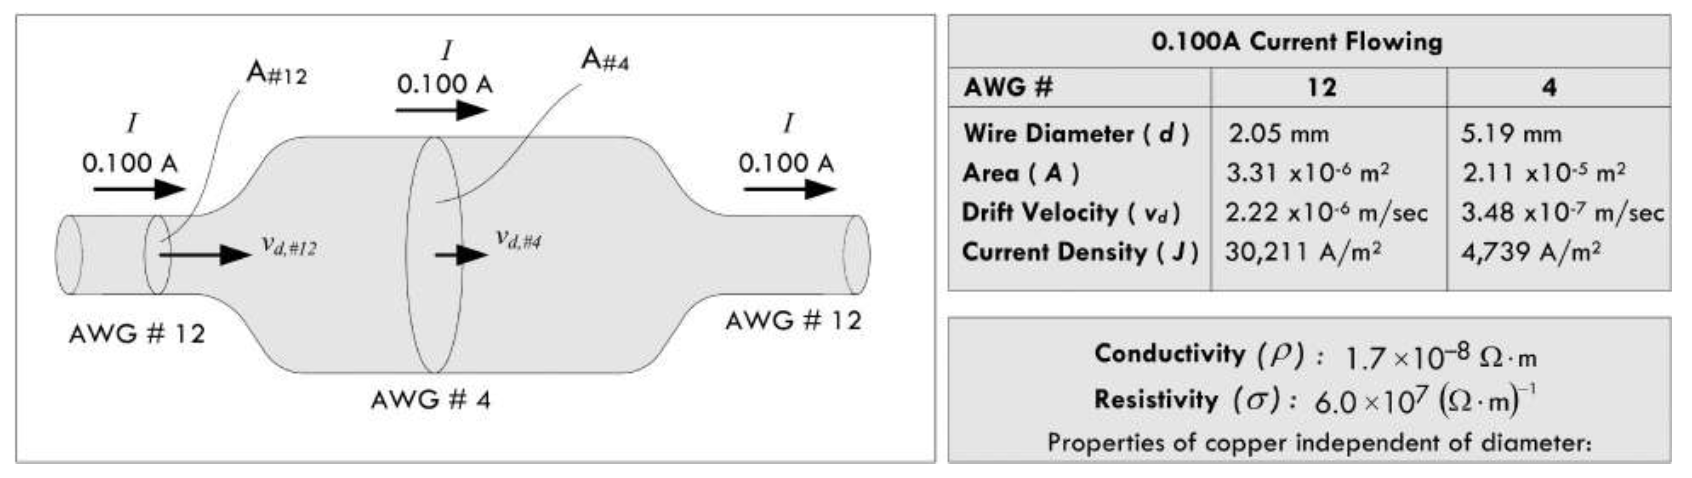
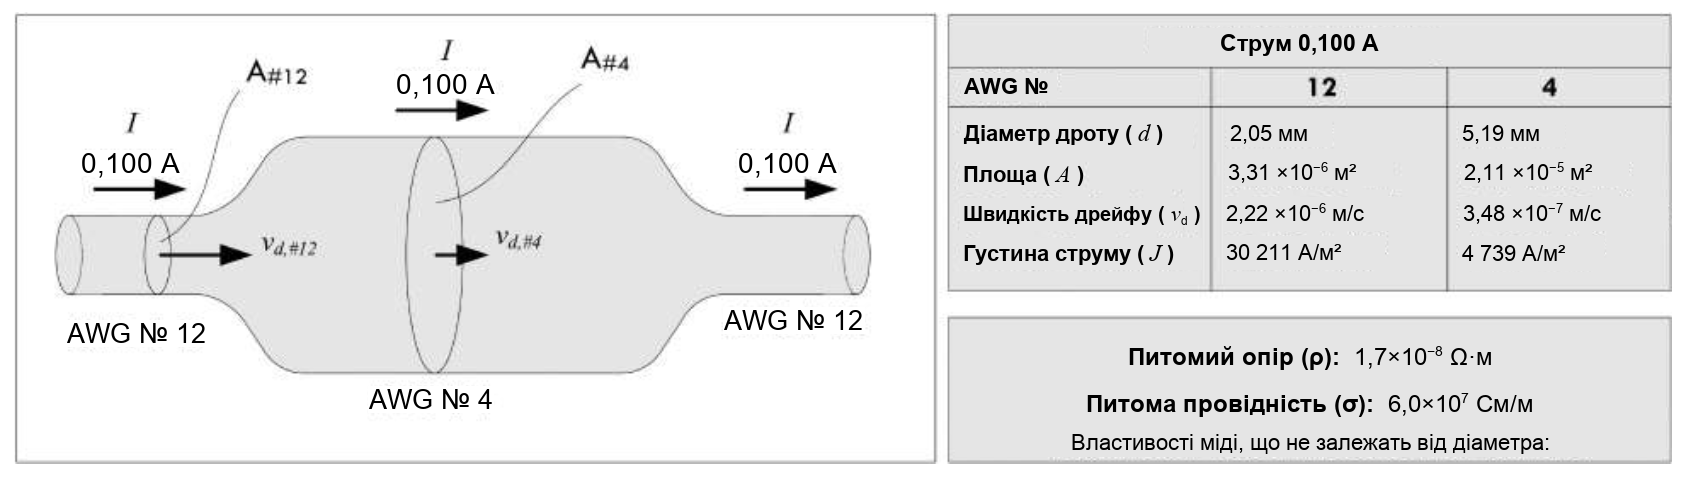
Перевірка розділу 2.5: правки перекладу, нотатки, українські підписи на рис. 2.18 і 2.19

diff --git a/Електроніка/2.5 Опір, питомий опір, питома провідність.md b/Електроніка/2.5 Опір, питомий опір, питома провідність.md
@@ -1,10 +1,10 @@
 
-Як було пояснено в попередньому розділі, вільні електрони в мідному дроті за кімнатної температури часто стикаються з іншими електронами, іонами кристалічної ґратки та домішками в ній, що обмежує їхній поступальний рух. Ці мікроскопічні механізми, що перешкоджають руху електронів, ми пов’язуємо з електричним опором. 
+Як було пояснено в попередньому розділі, вільні електрони в мідному дроті за кімнатної температури часто стикаються з іншими електронами, іонами кристалічної ґратки та домішками в ній, що обмежує їхній рух уперед. Ці мікроскопічні механізми, що перешкоджають руху електронів, ми пов’язуємо з електричним опором. 
 
-У 1826 році Георг Симон Ом опублікував результати експериментів щодо опору різних матеріалів, застосувавши підхід, який не заглиблювався в приховані механізми, а зосереджувався на сумарних спостережуваних ефектах. Він виявив лінійну залежність між силою струму, що проходить крізь матеріал, і прикладеною до нього напругою. Опір він визначив як відношення прикладеної напруги до сили отриманого струму, що виражається формулою:
+У 1826 році Георг Симон Ом опублікував результати експериментів щодо опору різних матеріалів, застосувавши якісний підхід, який не заглиблювався в приховані механізми, а зосереджувався на сумарних спостережуваних ефектах. Він виявив лінійну залежність між силою струму, що проходить крізь матеріал, і прикладеною до нього напругою. Опір він визначив як відношення прикладеної напруги до сили отриманого струму, що виражається формулою:
 
 $$
-R\equiv\frac{V}{I}
+R\equiv\frac{U}{I}
 \tag{2.4}
 $$
 
@@ -20,16 +20,19 @@ $$
 
 ![[Зображення/Розділ 2/Рисунок 2.18 Омічний матеріал.png]]
 
-**Рисунок 2.18.** Омічний матеріал має лінійну залежність між напругою та струмом; нахил графіка $V(I)$ визначається опором.
+**Рисунок 2.18.**
 
 Закон Ома можна застосовувати лише до омічних матеріалів — тих, чий опір залишається незмінним у певному діапазоні напруг. Натомість неомічні матеріали не підпорядковуються цій закономірності й не дотримуються закону Ома. Наприклад, діод — це пристрій, який легко пропускає струм за додатної напруги, але перешкоджає його проходженню (створює високий опір) за від’ємної напруги.
 
-> [!note] Важливе уточнення щодо закону Ома
-> Закон Ома часто записують як
+> [!info] Цікава примітка про закон Ома
+> Зазвичай закон Ома записують у такому вигляді:
 > $$
-> V=I*R.
+> U=I\times R.
 > $$
-> Для омічного матеріалу $R$ є сталою в певному діапазоні напруг, струмів і температур. Формулу можна алгебраїчно перетворювати для знаходження $V$, $I$ або $R$, але вона не є універсальним визначенням напруги й не описує неомічні компоненти.
+> Проте в цій формі виникає спокуса визначати напругу через опір і струм. Важливо усвідомити, що $R$ — це опір омічного матеріалу, і в законі Ома він не залежить від $U$. Насправді закон Ома нічого не стверджує про напругу; навпаки, він визначає опір через напругу й струм, і його не можна застосовувати до інших галузей фізики, як-от статична електрика, оскільки там немає протікання струму. Іншими словами, ви не визначаєте напругу через струм і опір; ви визначаєте опір через напругу й струм. Це не означає, що не можна застосовувати закон Ома, скажімо, щоб спрогнозувати, яка напруга має існувати на відомому опорі за виміряного струму. Насправді це роблять постійно під час аналізу кіл.
+
+> [!note] Нотатка (не з оригіналу): як читати $U=IR$
+> $R$ — властивість провідника (в омічному матеріалі стала), а $U$ і $I$ — виміряні величини. Формулу можна алгебраїчно перетворювати для знаходження $U$, $I$ або $R$, але первинне значення закону Ома — це саме визначення опору $R\equiv U/I$.
 
 ## 2.5.1 Як форма провідника впливає на опір
 
@@ -37,15 +40,14 @@ $$
 
 Зростання опору зі збільшенням довжини можна пояснити тим, що вздовж дроту трапляється більше іонів кристалічної ґратки та дефектів, які створюють перешкоди для прикладеного поля (електричного поля, зумовленого електронами, що їх нагнітає джерело). Це поле менш ефективно переміщує електрони, оскільки в міру просування вздовж провідника зростає протидія з боку інших електронів — тобто в середньому відбувається більше зіткнень.
 
-Зменшення опору зі збільшенням площі поперечного перерізу можна пояснити тим, що провідник більшого об’єму (з більшою площею перерізу) здатний пропускати більший струм. Якщо порівняти тонкий і товстий дроти, через які проходить струм силою 0,100 А, то в тонкому дроті цей струм має проходити крізь менший об’єм, тоді як у товстому він розподіляється по більшому об’єму. Електрони, обмежені меншим об’ємом, частіше стикаються з іншими електронами, іонами кристалічної ґратки та дефектами, ніж у дроті більшого об’єму. Концентрація потоку вільних електронів, згідно з умовною домовленістю Бенджаміна Франкліна, відповідає концентрації потоку умовного струму, що рухається у протилежному напрямку. Ця концентрація потоку струму називається густиною струму J — це величина струму, що проходить через одиницю площі. Для дроту: $J = I/A$. На рисунку 2.19 показано, що густина струму в тонкому дроті (калібру 12) вища, ніж у товстішому дроті (калібру 4). Також видно, що швидкість дрейфу в товстому дроті менша, ніж у тонкому; це є наслідком «зниження тиску електронного поля», що послаблює середню силу, яка «штовхає» носії заряду в напрямку потоку струму.
+Зменшення опору зі збільшенням площі поперечного перерізу можна пояснити тим, що провідник більшого об’єму (з більшою площею перерізу) здатний пропускати більший струм. Якщо порівняти тонкий і товстий дроти, через які проходить струм силою 0,100 А, то в тонкому дроті цей струм має проходити крізь менший об’єм, тоді як у товстому він розподіляється по більшому об’єму. Електрони, обмежені меншим об’ємом, частіше стикаються з іншими електронами, іонами кристалічної ґратки та дефектами, ніж у дроті більшого об’єму. Концентрація потоку вільних електронів, згідно з умовною домовленістю Бенджаміна Франкліна, відповідає концентрації потоку умовного струму, що рухається у протилежному напрямку. Ця концентрація потоку струму називається густиною струму J — це величина струму, що проходить через одиницю площі. Для дроту: $J = I/A$. На рисунку 2.19 показано, що густина струму в тонкому дроті (калібру 12) вища, ніж у товстішому дроті (калібру 4). Також видно, що швидкість дрейфу в товстому дроті менша, ніж у тонкому; це є наслідком «зниження тиску електронного поля», що послаблює середній «поштовх» у напрямку потоку струму.
 
+> [!note] Нотатка (не з оригіналу): чому тонкий дріт опірніший
+> Той самий струм $I$ → менша площа $A$ → більша густина $J=I/A$ → більше зіткнень електронів → більший опір. У товстому дроті $J$ і дрейфова швидкість менші (рис. 2.19).
 
 ![[Зображення/Розділ 2/Рисунок 2.19 Вплив діаметра дроту на опір.png]]
 
 **Рисунок 2.19.** Вплив діаметра дроту на опір. Тонший дріт має більший опір на одиницю довжини, ніж товстіший.
-
-> [!warning] Помилка в рисунку 2.19
-> У нижньому правому блоці оригіналу переплутано назви величин. Значення $1{,}7\times10^{-8}\ \Omega\cdot\text{м}$ — це питомий опір міді $\rho$, а $6{,}0\times10^7\ \text{См/м}$ — її питома провідність $\sigma$.
 
 ## 2.5.2 Питомий опір і питома провідність
 
@@ -57,46 +59,65 @@ $$
 \tag{2.5}
 $$
 
-де $A$ — площа поперечного перерізу, $L$ — довжина, а $R$ — повний опір матеріалу, виміряний уздовж його довжини. Одиницею вимірювання питомого опору є ом-метр ($Ωm$).
+де $A$ — площа поперечного перерізу, $L$ — довжина, а $R$ — повний опір матеріалу, виміряний уздовж його довжини. Одиницею вимірювання питомого опору є ом-метр ($\Omega\cdot\text{м}$).
 
-Для декого питомий опір — це надто «негативне» поняття, адже воно вказує на те, наскільки «погано» певний матеріал проводить струм. Оптимісти ж віддають перевагу поняттю електропровідності — тобто тому, наскільки «добре» матеріал проводить струм. Електропровідність, що позначається літерою $σ$, є просто величиною, оберненою до питомого опору:
+Для декого питомий опір — це надто «негативне» поняття, адже воно вказує на те, наскільки «погано» певний матеріал проводить струм. Оптимісти ж віддають перевагу поняттю питомої провідності — тобто тому, наскільки «добре» матеріал проводить струм. Питома провідність, що позначається літерою $σ$, є просто величиною, оберненою до питомого опору:
 
 $$
 \sigma\equiv\frac{1}{\rho}.
 \tag{2.6}
 $$
 
-Одиницею вимірювання питомої електропровідності є сіменс $S = (Ωm)^{-1}$; математична примітка: $[Ωm]−1 = 1/[Ωm]$). Як питома електропровідність, так і питомий електричний опір містять одну й ту саму важливу інформацію. Дехто воліє оперувати рівняннями, що використовують оптимістичне поняття електропровідності («склянка наполовину повна»), тоді як інші надають перевагу песимістичному поняттю питомого опору («склянка наполовину порожня»).
+Одиницею вимірювання питомої провідності є сіменс, $\text{См} = (\Omega\cdot\text{м})^{-1}$. (Математична примітка: $[\Omega\cdot\text{м}]^{-1} = 1/[\Omega\cdot\text{м}]$.) Як питома провідність, так і питомий опір містять одну й ту саму важливу інформацію. Дехто воліє оперувати рівняннями, що використовують оптимістичне поняття питомої провідності («склянка наполовину повна»), тоді як інші надають перевагу песимістичному поняттю питомого опору («склянка наполовину порожня»).
+
 З огляду на питомий опір і питому провідність, закон Ома можна переписати таким чином:
 
 $$
-V=IR=\rho\frac{L}{A}I=\frac{IL}{\sigma A}.
+U=IR=\rho\frac{L}{A}I=\frac{IL}{\sigma A}.
 \tag{2.7}
 $$
 
-У таблиці 2.2 наведено значення електропровідності (або питомого опору — для песимістів) різних матеріалів. (Повний перелік можна знайти в технічних довідниках, наприклад, у *Handbook of Chemistry and Physics*.) Електропровідність таких металів, як мідь і срібло, у 10²¹ разів перевищує електропровідність якісного діелектрика, скажімо, тефлону. Хоча мідь і срібло є чудовими провідниками, срібло надто дороге для практичного застосування. Алюміній також є досить хорошим провідником і свого часу навіть використовувався в електропроводці житлових будинків; однак згодом з’ясувалося, що він схильний до сильного окиснення, що погіршує якість електричних контактів і обмежує проходження струму вузькими каналами. Це створювало ризик виникнення пожежі.
+У таблиці 2.2 наведено значення питомої провідності (або питомого опору — для песимістів) різних матеріалів. (Повний перелік можна знайти в технічних довідниках, наприклад, у *Handbook of Chemistry and Physics*.) Питома провідність таких металів, як мідь і срібло, у 10²¹ разів перевищує питому провідність якісного ізолятора, скажімо, тефлону. Хоча мідь і срібло є чудовими провідниками, срібло надто дороге для практичного застосування. Алюміній також є досить хорошим провідником і свого часу навіть використовувався в електропроводці житлових будинків; однак швидко стало очевидним, що він схильний до сильного окиснення, що погіршує якість електричних контактів і обмежує проходження струму вузькими каналами. Це створювало ризик виникнення пожежі.
 
-> [!warning] Неточність у підручнику
+> [!warning] Неточність у підручнику (примітка не з оригіналу)
 > В оригіналі одиницю питомої провідності названо просто сіменсом. Сіменс ($\text{См}=\Omega^{-1}$) є одиницею провідності компонента, а питому провідність матеріалу вимірюють у $\text{См/м}$.
 
-### Таблиця 2.2. Електричні властивості деяких матеріалів
+### Таблиця 2.2. Питома провідність різних матеріалів
 
-| Матеріал | $\rho$, $\Omega\cdot\text{м}$ | $\sigma$, $\text{См/м}$ | Тип                        |
-| -------- | ----------------------------: | ----------------------: | -------------------------- |
-| Срібло   |         $1{,}59\times10^{-8}$ |      $6{,}29\times10^7$ | провідник                  |
-| Мідь     |         $1{,}72\times10^{-8}$ |      $5{,}81\times10^7$ | провідник                  |
-| Алюміній |         $2{,}82\times10^{-8}$ |      $3{,}55\times10^7$ | провідник                  |
-| Латунь   |              $7\times10^{-8}$ |       $1{,}4\times10^7$ | провідник                  |
-| Ніхром   |          $1{,}0\times10^{-6}$ |       $1{,}0\times10^6$ | провідник з високим опором |
-| Графіт   |          $3{,}5\times10^{-5}$ |       $2{,}9\times10^4$ | напівпровідний матеріал    |
-| Германій |                      $0{,}46$ |                 $2{,}2$ | напівпровідник             |
-| Скло     |           $10^{10}$–$10^{14}$ |   $10^{-14}$–$10^{-10}$ | ізолятор                   |
-| Тефлон   |                     $10^{14}$ |              $10^{-14}$ | ізолятор                   |
+> [!note] Нотатка (не з оригіналу)
+> У стовпці σ оригінал вказує $(\Omega\text{м})^{-1}$; тут одиницю виправлено на $\text{См/м}$.
 
-> [!tip]
+| Матеріал | Питомий опір $\rho$, $\Omega\cdot\text{м}$ | Питома провідність $\sigma$, $\text{См/м}$ | Температурний коефіцієнт $\alpha$, $(°\text{C})^{-1}$ | Тепловий опір, $(\text{Вт/см·°C})^{-1}$ | Теплопровідність $K$, $\text{Вт/см·°C}$ |
+| --- | ---: | ---: | ---: | ---: | ---: |
+| **Провідники** | | | | | |
+| Алюміній | $2{,}82\times10^{-8}$ | $3{,}55\times10^7$ | $0{,}0039$ | $0{,}462$ | $2{,}165$ |
+| Золото | $2{,}44\times10^{-8}$ | $4{,}10\times10^7$ | | $0{,}343$ | $2{,}913$ |
+| Срібло | $1{,}59\times10^{-8}$ | $6{,}29\times10^7$ | $0{,}0038$ | $0{,}240$ | $4{,}173$ |
+| Мідь | $1{,}72\times10^{-8}$ | $5{,}81\times10^7$ | $0{,}0039$ | $0{,}254$ | $3{,}937$ |
+| Залізо | $10{,}0\times10^{-8}$ | $1{,}0\times10^7$ | $0{,}0050$ | $1{,}495$ | $0{,}669$ |
+| Вольфрам | $5{,}6\times10^{-8}$ | $1{,}8\times10^7$ | $0{,}0045$ | $0{,}508$ | $1{,}969$ |
+| Платина | $10{,}6\times10^{-8}$ | $1{,}0\times10^7$ | $0{,}003927$ | | |
+| Свинець | $0{,}22\times10^{-6}$ | $4{,}54\times10^6$ | | $2{,}915$ | $0{,}343$ |
+| Сталь (нержавка) | $0{,}72\times10^{-6}$ | $1{,}39\times10^6$ | | $6{,}757$ | $0{,}148$ (312) |
+| Ніхром | $100\times10^{-8}$ | $0{,}1\times10^7$ | $0{,}0004$ | | |
+| Манганін | $44\times10^{-8}$ | $0{,}23\times10^7$ | $0{,}00001$ | | |
+| Латунь | $7\times10^{-8}$ | $1{,}4\times10^7$ | $0{,}002$ | $0{,}820$ | $1{,}22$ |
+| **Напівпровідники** | | | | | |
+| Вуглець (графіт) | $3{,}5\times10^{-5}$ | $2{,}9\times10^4$ | $-0{,}0005$ | | |
+| Германій | $0{,}46$ | $2{,}2$ | $-0{,}048$ | | |
+| Кремній | $640$ | $3{,}5\times10^{-3}$ | $-0{,}075$ | $0{,}686$ | $1{,}457$ (чистий) |
+| Арсенід галію | | | | $1{,}692$ | $0{,}591$ |
+| **Ізолятори** | | | | | |
+| Скло | $10^{10}$–$10^{14}$ | $10^{-14}$–$10^{-10}$ | | | |
+| Неопренова гума | $10^{9}$ | $10^{-9}$ | | | |
+| Кварц (плавлений) | $75\times10^{16}$ | $10^{-16}$ | | | |
+| Сірка | $10^{15}$ | $10^{-15}$ | | | |
+| Тефлон | $10^{14}$ | $10^{-14}$ | | | |
+
+> [!tip] Підказка (не з оригіналу)
 > Що менший питомий опір $\rho$, то кращий провідник. Що більша питома провідність $\sigma$, то кращий провідник.
 
-Важливою характеристикою питомого опору (або питомої електропровідності) є його залежність від температури. Як правило, у певному температурному діапазоні питомий опір багатьох металів підпорядковується такому рівнянню:
+Важливою характеристикою питомого опору (або питомої провідності) є його залежність від температури. Як правило, у певному температурному діапазоні питомий опір багатьох металів підпорядковується такому рівнянню:
 
 $$
 \rho(T)=\rho_0\left[1+\alpha(T-T_0)\right].
@@ -105,118 +126,31 @@ $$
 
 де $ρ$ — розрахунковий питомий опір, визначений на основі опорного значення питомого опору $ρ_0$ та температури $T_0$. Величина $α$ називається температурним коефіцієнтом питомого опору і вимірюється в $1/°C$ або $(°C)^{−1}$. Питомий опір більшості металів зростає з підвищенням температури, оскільки коливання атомів кристалічної ґратки, зумовлені тепловою енергією (підвищенням температури), перешкоджають дрейфовій швидкості електронів провідності.
 
+> [!note] Нотатка (не з оригіналу): знак $\alpha$
+> У металів $\alpha>0$ (опір зростає з температурою). У напівпровідників за табл. 2.2 $\alpha<0$ (вуглець, германій, кремній): з нагріванням з’являється більше носіїв заряду, і опір падає. Манганін має $\alpha\approx10^{-5}$ — майже не залежить від температури.
+
 ## Чи є вода, повітря та вакуум ізоляторами чи провідниками?
 
-Відповідь залежить від домішок, іонізації та зовнішніх умов.
+Ці середовища потребують окремої згадки. Дивіться коментарі в таблиці 2.3.
 
 ### Таблиця 2.3. Питомий опір особливих середовищ
 
-| Середовище | Орієнтовний $\rho$, $\Omega\cdot\text{м}$ | Що переносить заряд |
+| Матеріал | Питомий опір $\rho$, $\Omega\cdot\text{м}$ | Коментарі |
 |---|---:|---|
-| Чиста вода | $2{,}5\times10^5$ | невелика кількість іонів $\mathrm{H_3O^+}$ та $\mathrm{OH^-}$ |
-| Солона вода | $\approx0{,}2$ | переважно іони $\mathrm{Na^+}$ та $\mathrm{Cl^-}$ |
-| Шкіра людини | $\approx5{,}0\times10^5$ | значення сильно залежить від вологості та вмісту солей |
-| Повітря | дуже великий за нормальних умов | іони й вільні електрони після іонізації |
-| Вакуум | ідеально нескінченний без носіїв заряду | струм можливий лише після введення або емісії заряджених частинок |
+| Чиста вода | $2{,}5\times10^5$ | Дистильована вода — дуже хороший ізолятор: вона має високий питомий опір. Доволі слабкий механізм провідності ґрунтується на потоці іонів, а не електронів, як у металах. За кімнатної температури вода зазвичай зазнає автоіонізації, що породжує певну кількість іонів $\mathrm{H_3O^+}$ та $\mathrm{OH^-}$, число яких мале порівняно з молекулами $\mathrm{H_2O}$ (1:10⁻⁷). Якщо підключити батарею з відомою напругою до двох мідних електродів, розташованих на відстані один від одного у відрі з дистильованою водою, і виміряти струм у металевій ділянці кола, то за законом Ома отримаємо, що вода має опір близько $20\times10^6\ \Omega/\text{см}$. Між електродами $\mathrm{H_3O^+}$ рухаються до від’ємного електрода, а $\mathrm{OH^-}$ — до додатного. Коли кожен іон досягає електрода, він віддає або приймає електрон, після чого іон рекомбінує в розчині. |
+| Солона вода | $\sim0{,}2$ | Додавання іонної сполуки у вигляді звичайної солі (NaCl) до води збільшує концентрацію іонів у розчині — NaCl іонізується на $\mathrm{Na^+}$ та $\mathrm{Cl^-}$. Грам доданої солі вносить близько $2\times10^{22}$ іонів. Ці іони діють як носії заряду, що, своєю чергою, ефективно знижує опір розчину до значення менше ніж один ом на метр. Якщо використати розчин як провідник між батареєю та лампою — через електроди, занурені в розчин, — струму буде достатньо, щоб запалити лампу. |
+| Шкіра людини | $\sim5{,}0\times10^5$ | Змінюється залежно від вологості та вмісту солі. |
+| Повітря | | Вважається ізолятором, оскільки майже не містить вільних електронів. Проте, як і рідини, повітря часто містить концентрації позитивних і негативних іонів, що перебувають у повітрі. Утворення повітряного іона починається з того, що електрон вибивається з нейтральної молекули повітря, наприклад кисню ($\mathrm{O_2}$) або азоту ($\mathrm{N_2}$), внаслідок природного бомбардування рентгенівськими променями, гамма-променями або альфа-частинками, які випромінюють атоми радону, що розпадаються. (На рівні моря щосекунди на кожному сантиметрі утворюється приблизно 5–10 пар іонів [в оригіналі «per centimeter»; фізично йдеться про 1 см³]; поблизу радонових зон — більше.) Позитивна молекула кисню або азоту швидко притягує полярні молекули (від 10 до 15 за кількістю), здебільшого води. Отримане скупчення називається позитивним повітряним іоном. Звільнений електрон, своєю чергою, найімовірніше прикріпиться до молекули кисню (азот не має спорідненості до електронів). Примітка: повітря вважається нейтральним — іони завжди утворюються парами, у рівній кількості позитивні та негативні.<br><br>Щоб струм протікав крізь повітря, потрібно прикласти до нього електричне поле — наприклад, за допомогою двох паралельних пластин, розташованих на відстані одна від одної та підключених до різних потенціалів (між ними існує напруга). За низької напруги напруженість поля мала, і між пластинами може відбуватися рух повітряних іонів, але оскільки концентрація вільних іонів, що плавають у повітрі, дуже мала, практично жодного струму немає. Однак якщо збільшити напруженість поля, можна розігнати ті вільні електрони (звільнені природними процесами) у повітрі до таких високих швидкостей (у напрямку до позитивної пластини), що самі ці електрони матимуть достатньо енергії, щоб зіштовхуватися з молекулами повітря та породжувати нові пари іонів (позитивних і негативних). Напруженість поля пробою, за якої ці іонізації починаються, становить приблизно 3 мегавольти на метр між плоскими електродами в повітрі. Двом металевим пластинам на відстані 1 см потрібно близько 30 000 В, щоб між ними відбулася іонізація. Проте напруженість електричного поля можна підвищити, замінивши одну з пластин гострим металевим вістрям або тонким дротом. Тоді потрібна напруга падає до кількох кіловольтів. Те, що відбувається, можна класифікувати так:<br><br>**Коронний розряд:** іонізація обмежена невеликою ділянкою навколо електрода, де перевищено напруженість поля пробою. В решті поля є лише струм повільних іонів і ще повільніших заряджених частинок, що знаходять шлях до протилежного електрода (яким може бути протилежно заряджена пластина або просто стіна кімнати чи земля). Такий розряд може підтримуватися, доки напруженість поля пробою перевищена в якійсь області.<br><br>**Іскровий розряд:** може виникати між двома добре закругленими провідниками з різними потенціалами, один з яких часто заземлений. Як і коронний розряд, він починається в точці, де перевищено напруженість поля пробою. Але на відміну від коронного розряду, в іскрі іонізація відбувається на всій відстані між електродами. Розряд дуже швидкий, а його енергія зосереджена у вузькому об’ємі. Напруга, необхідна для пробою, називається напругою пробою. Наприклад, коли ви заряджаєтеся, йдучи по ізольованій підлозі (наприклад, килиму) в ізольованому взутті й набуваєте заряду через контакт і тертя, а потім торкаєтеся заземленого предмета, заряд перетікатиме між вами й предметом ще до фізичного контакту — це іскра. Мало хто помічає розряди за напруг нижче приблизно 1000 В. Більшість людей починає відчувати неприємний ефект близько 2000 В. Майже всі скаржитимуться на розряди за напруг понад 3000 В.<br><br>**Щітковий розряд:** проміжний між коронним розрядом і іскрою; може виникати, наприклад, між зарядженим матеріалом і зазвичай заземленим електродом із радіусом кривизни кілька міліметрів. Якщо щітковий розряд підтримується довший час, він може виглядати як нерегулярні світні доріжки. Майже всі розряди з ізоляторів — щіткові, як-от тріск, що чути, коли берете заряджену фотокопію, або те, що відчуваєте, знімаючи светр через голову. |
+| Вакуум | | Вважається ідеальним ізолятором, оскільки за визначенням не містить жодних вільних зарядів. Однак це не означає, що заряди не можуть крізь нього проходити. Різні механізми можуть викидати електрони з матеріалу в так званий вакуум. (Це стосується й повітря.) Приклади таких механізмів: **термоелектронна емісія**, за якої підвищення температури надає вільним електронам достатньо енергії, щоб подолати поверхневі потенціальні бар’єри (роботу виходу) матеріалу; **польова емісія**, за якої додаткова енергія електричного поля, створеного високовольтним провідником, забезпечує достатньо притягальне позитивне поле, щоб вивільнити електрони з поверхні, що потребує величезних напруг (МВ на см між емітуючою поверхнею та позитивним провідником); **вторинна емісія**, за якої електрони випромінюються з металевої поверхні внаслідок бомбардування швидкими електронами чи іншими частинками; **фотоелектронна емісія**, за якої електрони вибиваються з поверхні матеріалу, коли на неї потрапляє фотон певної частоти (поглинутий електрон). Багато з цих механізмів використовуються в технології вакуумних ламп. Однак без таких механізмів, що постачають електрони, у вакуумі не буде джерела заряду, здатного підтримувати струм. |
 
-Дистильована вода є добрим ізолятором. Звичайна та солона вода проводять значно краще через розчинені іони. Додавання солі збільшує концентрацію носіїв заряду й різко зменшує питомий опір.
+> [!note] Нотатка (не з оригіналу): порівняння розрядів у повітрі
+> | Розряд | Де іонізація | Ознака |
+> |---|---|---|
+> | Коронний | лише біля електрода (гострий кінець) | повільні іони, струм малий, розряд може тривати |
+> | Щітковий | проміжний тип, радіус кривизни ≈ кілька мм | нерегулярні світні доріжки, тріск |
+> | Іскровий | на всьому проміжку між електродами | швидкий, енергія в вузькому об’ємі |
 
-За нормальних умов повітря є ізолятором. Якщо напруженість електричного поля наближається приблизно до $3\ \text{МВ/м}$, може виникнути електричний пробій. Для плоских електродів, розділених проміжком $1\ \text{см}$, це відповідає напрузі порядку $30\ \text{кВ}$. Залежно від геометрії електродів можливі коронний, іскровий або щітковий розряд.
+> [!note] Нотатка (не з оригіналу)
+> Порожня клітинка в колонці $\rho$ означає, що оригінал не наводить числового значення для повітря та вакууму.
 
-Ідеальний вакуум не містить вільних носіїв заряду, але струм у ньому можливий, якщо електрони потрапляють у вакуум завдяки термоелектронній, польовій, вторинній або фотоелектронній емісії. На цьому ґрунтується робота електронних ламп.
-
-## Конспект
-
-### Головна ідея
-
-Опір конкретного провідника залежить від трьох чинників:
-
-$$
-R=\rho\frac{L}{A}.
-$$
-
-- матеріал задає питомий опір $\rho$;
-- більша довжина $L$ збільшує опір;
-- більша площа перерізу $A$ зменшує опір.
-
-### Карта величин
-
-| Величина | Позначення | Що характеризує | Одиниця SI |
-|---|---:|---|---:|
-| Опір | $R$ | конкретний компонент або провідник | $\Omega$ |
-| Питомий опір | $\rho$ | матеріал | $\Omega\cdot\text{м}$ |
-| Питома провідність | $\sigma$ | матеріал | $\text{См/м}$ |
-| Густина струму | $J$ | струм на одиницю площі | $\text{А/м}^2$ |
-
-### Формули, які варто пам’ятати
-
-$$
-R=\frac{V}{I},
-\qquad
-V=IR,
-\qquad
-I=\frac{V}{R}
-$$
-
-$$
-R=\rho\frac{L}{A},
-\qquad
-\rho=R\frac{A}{L},
-\qquad
-\sigma=\frac{1}{\rho}
-$$
-
-$$
-J=\frac{I}{A},
-\qquad
-\rho(T)=\rho_0[1+\alpha(T-T_0)]
-$$
-
-### Підказки для запам’ятовування
-
-> [!tip] Довгий і тонкий — великий опір
-> У формулі $R=\rho L/A$ довжина стоїть у чисельнику, а площа — у знаменнику. Довший дріт має більший опір; товстіший — менший.
-
-> [!tip] $\rho$ та $\sigma$ дивляться в протилежні боки
-> Великий питомий опір означає малу питому провідність: $\rho\uparrow\Rightarrow\sigma\downarrow$.
-
-> [!tip] Спочатку переведіть площу
-> $1\ \text{мм}^2=10^{-6}\ \text{м}^2$. Це найчастіше місце помилки в задачах із формулою $R=\rho L/A$.
-
-> [!warning] Не плутайте $R$ і $\rho$
-> $R$ залежить від матеріалу та геометрії. $\rho$ характеризує матеріал за заданої температури й не залежить від форми зразка.
-
-### Приклад
-
-Знайдемо опір мідного дроту довжиною $10\ \text{м}$ і площею перерізу $1\ \text{мм}^2$. Для міді $\rho=1{,}72\times10^{-8}\ \Omega\cdot\text{м}$.
-
-$$
-A=1\ \text{мм}^2=1\times10^{-6}\ \text{м}^2,
-$$
-
-$$
-R=\rho\frac{L}{A}
-=1{,}72\times10^{-8}\frac{10}{1\times10^{-6}}
-=0{,}172\ \Omega.
-$$
-
-### Самоперевірка
-
-1. Що станеться з опором, якщо довжину дроту збільшити втричі?
-2. Що станеться з опором, якщо площу перерізу збільшити вдвічі?
-3. Чим відрізняються $R$ і $\rho$?
-4. Яка питома провідність матеріалу з $\rho=2\times10^{-8}\ \Omega\cdot\text{м}$?
-5. Чому солона вода проводить струм краще за дистильовану?
-
-> [!question]- Відповіді
-> 1. Опір збільшиться втричі.
-> 2. Опір зменшиться вдвічі.
-> 3. $R$ характеризує конкретний провідник і залежить від його геометрії; $\rho$ характеризує матеріал.
-> 4. $\sigma=1/\rho=5\times10^7\ \text{См/м}$.
-> 5. Розчинена сіль створює значно більшу концентрацію рухомих іонів.
-
-### Пов’язані теми
-
-- [[2.3 Напруга|Напруга]]
-- [[2.2 Електричний струм|Електричний струм]]
-- [[2.7 Тепло та електроенергія|Потужність і теплова дія струму]]
+Додаткові матеріали до розділу (конспект, формули, підказки, приклад, самоперевірка): [[2.5 Додаткові матеріали]].
